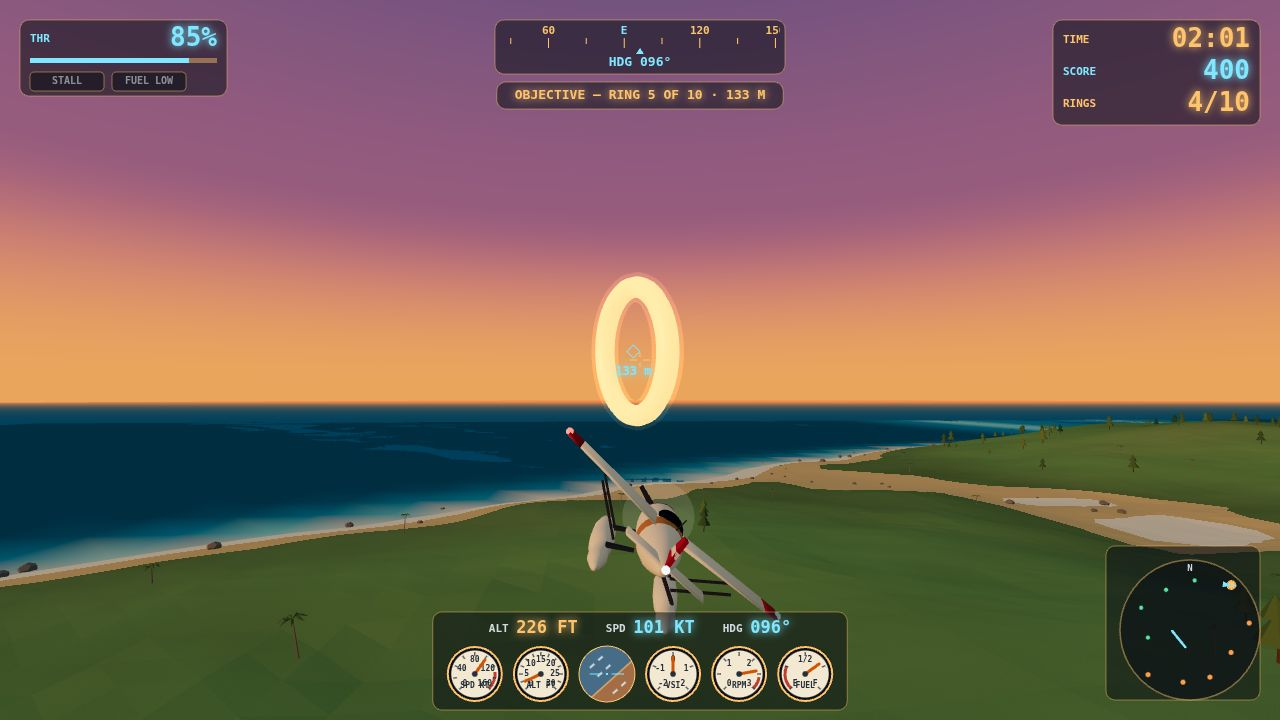
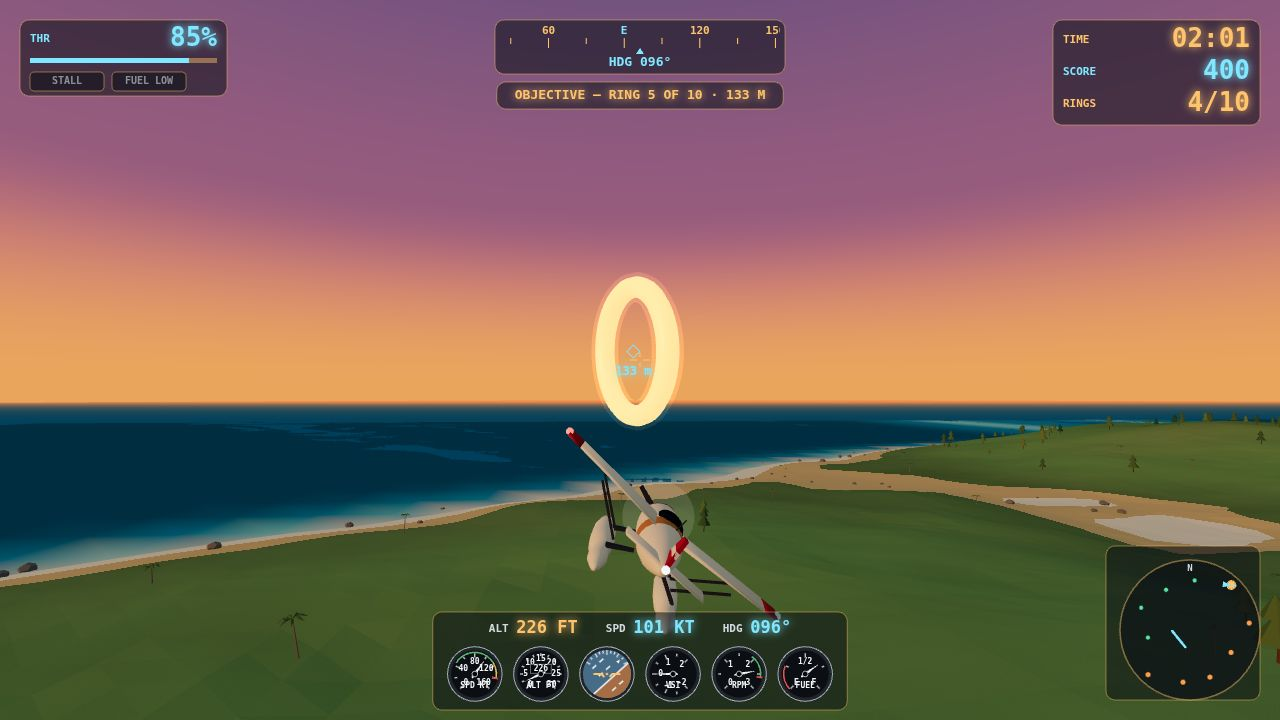
V5.1: open cockpit view (lowered panel, raised pilot eye, wing and prop hidden in cockpit), real-style black-face instruments with range arcs, drum altimeter and left-zero VSI

Changed region(s): [[0.3438, 0.8861, 0.6562, 0.9778]]

diff --git a/game/src/gauges.js b/game/src/gauges.js
@@ -30,51 +30,102 @@ function dialAngle(fraction) {
   return THREE.MathUtils.degToRad(-135 + 270 * fraction);
 }
 
-export function drawGauge(ctx, cx, cy, radius, fraction, label, ticks, { redStart, redEnd } = {}) {
-  const face = radius * 0.84;
-  const dark = '#26303a';
-  ctx.save();
+const faceColor = '#0b0f13';
+const rimColor = '#a7afb4';
+const instrumentWhite = '#f3f5f5';
+const green = '#55b56a';
+const yellow = '#e9bf49';
+const red = '#eb5353';
+
+function drawBezel(ctx, cx, cy, radius) {
   ctx.beginPath();
   ctx.arc(cx, cy, radius, 0, Math.PI * 2);
-  ctx.fillStyle = '#0b0f16';
+  ctx.fillStyle = '#202529';
   ctx.fill();
   ctx.beginPath();
-  ctx.arc(cx, cy, radius - 1, 0, Math.PI * 2);
-  ctx.strokeStyle = amber;
-  ctx.lineWidth = 2;
+  ctx.arc(cx, cy, radius - 0.75, 0, Math.PI * 2);
+  ctx.strokeStyle = rimColor;
+  ctx.lineWidth = 1;
   ctx.stroke();
+}
+
+function drawDrum(ctx, cx, cy, face, reading) {
+  const digits = String(Math.round(reading));
+  const width = Math.max(face * 0.88, digits.length * 5 + 4);
+  const height = Math.max(9, face * 0.22);
+  const y = cy - face * 0.22;
+  ctx.fillStyle = '#040608';
+  ctx.fillRect(cx - width / 2, y - height / 2, width, height);
+  ctx.strokeStyle = '#636b72';
+  ctx.lineWidth = 1;
+  ctx.strokeRect(cx - width / 2, y - height / 2, width, height);
+  text(ctx, digits, cx, y, instrumentWhite, 8, 'center');
+}
+
+export function drawGauge(ctx, cx, cy, radius, fraction, label, ticks, options = {}) {
+  const { angleFor = dialAngle, arcs = [], redLine, drum } = options;
+  const face = radius * 0.84;
+  ctx.save();
+  drawBezel(ctx, cx, cy, radius);
   ctx.beginPath();
   ctx.arc(cx, cy, face, 0, Math.PI * 2);
-  ctx.fillStyle = '#f3e9d2';
+  ctx.fillStyle = faceColor;
   ctx.fill();
 
-  if (redStart !== undefined || redEnd !== undefined) {
+  for (const [start, end, color] of arcs) {
     ctx.beginPath();
-    ctx.arc(cx, cy, face * 0.86, dialAngle(redStart ?? 0) - Math.PI / 2,
-      dialAngle(redEnd ?? 1) - Math.PI / 2);
-    ctx.strokeStyle = '#c23b31';
-    ctx.lineWidth = 3;
+    ctx.arc(cx, cy, face * 0.92, angleFor(start) - Math.PI / 2, angleFor(end) - Math.PI / 2);
+    ctx.strokeStyle = color;
+    ctx.lineWidth = Math.max(1.5, radius * 0.055);
     ctx.stroke();
   }
 
   ctx.lineWidth = 1;
   for (const tick of ticks) {
-    const angle = dialAngle(tick.fraction);
+    const angle = angleFor(tick.fraction);
     const x = Math.sin(angle) * face;
     const y = -Math.cos(angle) * face;
-    line(ctx, cx + x * 0.78, cy + y * 0.78, cx + x * 0.92, cy + y * 0.92, dark);
-    if (tick.label !== null) text(ctx, tick.label, cx + x * 0.60, cy + y * 0.60, dark, 8, 'center');
+    const inner = tick.label === null || drum !== undefined ? 0.77 : 0.71;
+    line(ctx, cx + x * inner, cy + y * inner, cx + x * 0.87, cy + y * 0.87, instrumentWhite);
+    if (tick.label !== null) {
+      const labelRadius = drum === undefined ? 0.53 : 0.65;
+      text(ctx, tick.label, cx + x * labelRadius, cy + y * labelRadius, instrumentWhite, 8, 'center');
+    }
+  }
+  if (redLine !== undefined) {
+    const angle = angleFor(redLine);
+    const x = Math.sin(angle) * face;
+    const y = -Math.cos(angle) * face;
+    ctx.lineWidth = Math.max(1.5, radius * 0.06);
+    line(ctx, cx + x * 0.76, cy + y * 0.76, cx + x * 0.99, cy + y * 0.99, red);
   }
 
-  const angle = dialAngle(THREE.MathUtils.clamp(fraction, 0, 1));
-  ctx.lineWidth = 3;
-  ctx.lineCap = 'round';
-  line(ctx, cx, cy, cx + Math.sin(angle) * face * 0.74, cy - Math.cos(angle) * face * 0.74, '#d35400');
+  if (drum !== undefined) drawDrum(ctx, cx, cy, face, drum);
+
+  ctx.save();
+  ctx.translate(cx, cy);
+  ctx.rotate(angleFor(THREE.MathUtils.clamp(fraction, 0, 1)));
+  const shoulder = Math.max(1.15, face * 0.049);
+  ctx.beginPath();
+  ctx.moveTo(0, -face * 0.75);
+  ctx.lineTo(shoulder, -face * 0.17);
+  ctx.lineTo(shoulder, face * 0.16);
+  ctx.lineTo(0, face * 0.23);
+  ctx.lineTo(-shoulder, face * 0.16);
+  ctx.lineTo(-shoulder, -face * 0.17);
+  ctx.closePath();
+  ctx.fillStyle = instrumentWhite;
+  ctx.fill();
+  ctx.restore();
+
   ctx.beginPath();
   ctx.arc(cx, cy, radius * 0.10, 0, Math.PI * 2);
-  ctx.fillStyle = dark;
+  ctx.fillStyle = '#050608';
   ctx.fill();
-  text(ctx, label, cx, cy + radius * 0.42, dark, 8, 'center');
+  ctx.strokeStyle = rimColor;
+  ctx.lineWidth = 1;
+  ctx.stroke();
+  text(ctx, label, cx, cy + radius * 0.42, instrumentWhite, 8, 'center');
   ctx.restore();
 }
 
@@ -86,43 +137,77 @@ export function gaugeTicks(maximum, step, labelStep, labelUnit = 1) {
 }
 
 export function drawAttitude(ctx, flight, x, y, radius) {
+  const face = radius * 0.86;
+  ctx.save();
+  drawBezel(ctx, x, y, radius);
+  ctx.translate(x, y);
+
   ctx.save();
   ctx.beginPath();
-  ctx.arc(x, y, radius, 0, Math.PI * 2);
+  ctx.arc(0, 0, face, 0, Math.PI * 2);
   ctx.clip();
   ctx.fillStyle = HUD.sky;
-  ctx.fillRect(x - radius, y - radius, radius * 2, radius * 2);
-  ctx.translate(x, y);
+  ctx.fillRect(-face, -face, face * 2, face * 2);
   ctx.rotate(-flight.roll);
-  const pitchScale = radius * 2.35;
-  const limit = radius * 0.85;
+  const pitchScale = face * 2.35;
+  const limit = face * 0.85;
   const horizon = THREE.MathUtils.clamp(flight.pitch * pitchScale, -limit, limit);
   ctx.fillStyle = HUD.ground;
-  ctx.fillRect(-radius * 2, horizon, radius * 4, radius * 4);
-  line(ctx, -radius * 2, horizon, radius * 2, horizon, amber);
-  ctx.lineWidth = 2;
+  ctx.fillRect(-face * 2, horizon, face * 4, face * 4);
+  ctx.lineWidth = 1.5;
+  line(ctx, -face * 2, horizon, face * 2, horizon, instrumentWhite);
   for (const degrees of [-20, -10, 10, 20]) {
     const level = horizon + THREE.MathUtils.degToRad(degrees) * pitchScale;
-    line(ctx, -radius * 0.30, level, -radius * 0.10, level, HUD.muted);
-    line(ctx, radius * 0.10, level, radius * 0.30, level, HUD.muted);
+    line(ctx, -face * 0.30, level, -face * 0.10, level, instrumentWhite);
+    line(ctx, face * 0.10, level, face * 0.30, level, instrumentWhite);
   }
   ctx.restore();
+
+  ctx.lineWidth = 1;
+  for (const degrees of [-60, -45, -30, -20, -10, 0, 10, 20, 30, 45, 60]) {
+    const angle = THREE.MathUtils.degToRad(degrees);
+    const tickX = Math.sin(angle) * face;
+    const tickY = -Math.cos(angle) * face;
+    const inner = degrees % 30 === 0 ? 0.81 : 0.87;
+    line(ctx, tickX * inner, tickY * inner, tickX * 0.97, tickY * 0.97, instrumentWhite);
+  }
+
+  ctx.save();
+  ctx.rotate(flight.roll);
   ctx.beginPath();
-  ctx.arc(x, y, radius, 0, Math.PI * 2);
+  ctx.moveTo(0, -face * 0.80);
+  ctx.lineTo(face * 0.075, -face * 0.65);
+  ctx.lineTo(-face * 0.075, -face * 0.65);
+  ctx.closePath();
+  ctx.fillStyle = instrumentWhite;
+  ctx.fill();
+  ctx.restore();
+
+  ctx.lineWidth = Math.max(2, face * 0.065);
+  ctx.lineCap = 'round';
+  ctx.lineJoin = 'round';
   ctx.strokeStyle = amber;
+  ctx.beginPath();
+  for (const side of [-1, 1]) {
+    ctx.moveTo(side * face * 0.53, 0);
+    ctx.lineTo(side * face * 0.23, 0);
+    ctx.lineTo(side * face * 0.13, face * 0.10);
+  }
   ctx.stroke();
-  line(ctx, x - 17, y, x - 5, y, cyan);
-  line(ctx, x + 5, y, x + 17, y, cyan);
-  ctx.fillStyle = cyan;
-  ctx.fillRect(x - 1, y - 1, 2, 2);
+  ctx.beginPath();
+  ctx.arc(0, 0, Math.max(1, face * 0.044), 0, Math.PI * 2);
+  ctx.fillStyle = amber;
+  ctx.fill();
+  ctx.restore();
 }
 
 const speedTicks = gaugeTicks(160, 20, 40);
 const altitudeTicks = gaugeTicks(3000, 250, 500, 100);
-const vsiTicks = [
-  { fraction: 0, label: '-2' }, { fraction: 0.25, label: '-1' }, { fraction: 0.5, label: '0' },
-  { fraction: 0.75, label: '1' }, { fraction: 1, label: '2' },
-];
+const vsiTicks = Array.from({ length: 9 }, (_, i) => ({
+  fraction: i / 8,
+  label: i % 2 === 0 ? String((i - 4) / 2) : null,
+}));
+const vsiAngle = (fraction) => THREE.MathUtils.degToRad(-225 + 270 * fraction);
 const rpmTicks = gaugeTicks(3000, 500, 1000, 1000);
 const fuelTicks = [
   { fraction: 0, label: 'E' }, { fraction: 0.25, label: null }, { fraction: 0.5, label: '1/2' },
@@ -139,13 +224,16 @@ export function drawInstrumentRow(ctx, cx, cy, radius, flight, position) {
   const altitude = Math.max(0, position.y) * HUD.feetPerMetre;
   const engineThrottle = flight.engineThrottle ?? flight.throttle;
   drawGauge(ctx, cx - 2.5 * spacing, cy, radius, speed / 160,
-    'SPD KT', speedTicks, { redStart: 130 / 160 });
-  drawGauge(ctx, cx - 1.5 * spacing, cy, radius, altitude / 3000, 'ALT FT', altitudeTicks);
+    'SPD KT', speedTicks, {
+      arcs: [[45 / 160, 115 / 160, green], [115 / 160, 140 / 160, yellow]],
+      redLine: 140 / 160,
+    });
+  drawGauge(ctx, cx - 1.5 * spacing, cy, radius, altitude / 3000, 'ALT FT', altitudeTicks, { drum: altitude });
   drawAttitude(ctx, flight, cx - 0.5 * spacing, cy, radius);
-  drawGauge(ctx, cx + 0.5 * spacing, cy, radius, vsiFraction(flight.verticalSpeed), 'VSI', vsiTicks);
+  drawGauge(ctx, cx + 0.5 * spacing, cy, radius, vsiFraction(flight.verticalSpeed), 'VSI', vsiTicks, { angleFor: vsiAngle });
   drawGauge(ctx, cx + 1.5 * spacing, cy, radius, (600 + engineThrottle * 2100) / 3000,
-    'RPM', rpmTicks, { redStart: 2600 / 3000 });
-  drawGauge(ctx, cx + 2.5 * spacing, cy, radius, flight.fuel, 'FUEL', fuelTicks, { redEnd: FUEL.lowFraction });
+    'RPM', rpmTicks, { arcs: [[1900 / 3000, 2600 / 3000, green]], redLine: 2600 / 3000 });
+  drawGauge(ctx, cx + 2.5 * spacing, cy, radius, flight.fuel, 'FUEL', fuelTicks, { arcs: [[0, FUEL.lowFraction, red]] });
 }
 
 export function drawDigitalStrip(ctx, cx, y, size, flight, position) {

diff --git a/game/src/aircraft.js b/game/src/aircraft.js
@@ -52,6 +52,7 @@ function buildPrimitiveSeaplane(materials) {
   const floatBody = new THREE.CapsuleGeometry(0.26, 2.26, 5, 10);
   const strut = new THREE.BoxGeometry(0.1, 0.63, 0.13);
   const navBulb = new THREE.SphereGeometry(0.085, 10, 8);
+  const wings = [];
 
   function wingBrace(side, z) {
     const start = new THREE.Vector3(side * 0.92, -0.65, z);
@@ -65,11 +66,13 @@ function buildPrimitiveSeaplane(materials) {
 
   for (const side of [-1, 1]) {
     const panel = new THREE.Group();
+    panel.name = side < 0 ? 'Wing panel Port' : 'Wing panel Starboard';
     panel.position.set(side * 0.27, 0.18, -0.16);
     panel.rotation.z = side * 0.075;
     add(panel, wing, cream, side * 1.11, 0, 0);
     add(panel, wingTip, red, side * 2.43, 0, 0);
     group.add(panel);
+    wings.push(panel);
 
     const float = add(group, floatBody, cream, side * 0.91, -0.82, -0.09);
     float.rotation.x = Math.PI / 2;
@@ -102,8 +105,7 @@ function buildPrimitiveSeaplane(materials) {
   const spinner = add(propeller, new THREE.ConeGeometry(0.17, 0.3, 12), red, 0, 0, -0.1);
   spinner.rotation.x = -Math.PI / 2;
   group.add(propeller);
-  addPropellerBlur(group);
-  return { group, propeller };
+  return { group, propeller, wings };
 }
 
 function addPropellerBlur(group) {
@@ -114,6 +116,7 @@ function addPropellerBlur(group) {
   blurDisc.position.z = -1.88;
   blurDisc.name = 'Propeller blur disc';
   group.add(blurDisc);
+  return blurDisc;
 }
 
 function buildCockpit(materials, cockpit) {
@@ -143,20 +146,20 @@ function buildCockpit(materials, cockpit) {
     mesh.quaternion.setFromUnitVectors(new THREE.Vector3(0, 1, 0), direction.normalize());
   }
 
-  part(new THREE.BoxGeometry(1.7, 0.62, 0.16), dark, 0, 0.06, -1.0);
-  const instruments = part(new THREE.PlaneGeometry(1.56, 0.78), panelMaterial, 0, 0.10, -0.90);
+  part(new THREE.BoxGeometry(1.6, 0.55, 0.16), dark, 0, 0.13, -1.06);
+  const instruments = part(new THREE.PlaneGeometry(1.45, 0.725), panelMaterial, 0, 0.16, -1.00);
   instruments.rotation.x = -0.12;
   // The dashboard backing intersects the tilted face, so paint the instruments over it.
   instruments.renderOrder = 1;
-  part(new THREE.BoxGeometry(1.8, 0.06, 0.46), dark, 0, 0.44, -0.92);
+  part(new THREE.BoxGeometry(1.65, 0.06, 0.46), dark, 0, 0.48, -0.98);
   const post = new THREE.BoxGeometry(0.055, 1, 0.055);
   for (const side of [-1, 1]) {
-    brace(post, new THREE.Vector3(side * 0.78, 0.40, -0.92), new THREE.Vector3(side * 0.60, 1.00, -0.68));
+    brace(post, new THREE.Vector3(side * 0.80, 0.46, -0.98), new THREE.Vector3(side * 0.60, 1.00, -0.68));
   }
   part(new THREE.BoxGeometry(1.26, 0.06, 0.08), materials.metal, 0, 1.00, -0.68);
   brace(new THREE.CylinderGeometry(0.028, 0.033, 1, 10),
-    new THREE.Vector3(0, -0.30, -0.78), new THREE.Vector3(0, 0, -0.70));
-  const yoke = part(new THREE.TorusGeometry(0.17, 0.028, 8, 20), dark, 0, 0, -0.70);
+    new THREE.Vector3(0, -0.18, -0.80), new THREE.Vector3(0, 0.06, -0.72));
+  const yoke = part(new THREE.TorusGeometry(0.14, 0.025, 8, 20), dark, 0, 0.06, -0.72);
   yoke.rotation.x = 1.15;
   part(new THREE.BoxGeometry(1.7, 0.05, 1.9), dark, 0, -0.48, -0.1);
   return interior;
@@ -168,6 +171,7 @@ export async function buildSeaplane() {
   group.name = 'Duskmail seaplane';
   let propeller = null;
   let spinners = [];
+  let wings = [];
 
   try {
     const { GLTFLoader } = await import('three/addons/loaders/GLTFLoader.min.js');
@@ -177,16 +181,18 @@ export async function buildSeaplane() {
         part.material = materials[part.material.name];
       }
       if (part.name === 'Propeller' || part.name === 'PropellerSpinner') spinners.push(part);
+      if (part.name.startsWith('Wing')) wings.push(part);
     });
     if (spinners.length !== 2) throw new Error('Missing seaplane propeller parts');
     group.add(gltf.scene);
-    addPropellerBlur(group);
   } catch {
     const primitive = buildPrimitiveSeaplane(materials);
     group.add(primitive.group);
     propeller = primitive.propeller;
     spinners = [propeller];
+    wings = primitive.wings;
   }
+  const blurDisc = addPropellerBlur(group);
   const canopy = group.getObjectByName('Canopy');
   const cockpit = createCockpitTexture();
   const interior = buildCockpit(materials, cockpit);
@@ -203,6 +209,10 @@ export async function buildSeaplane() {
     interior.visible = visible;
     // The opaque exterior canopy would cover the view from the pilot's eye.
     if (canopy) canopy.visible = !visible;
+    for (const spinner of spinners) spinner.visible = !visible;
+    for (const wing of wings) wing.visible = !visible;
+    blurDisc.material.opacity = visible ? 0.05 : 0.15;
+    blurDisc.material.color.setHex(visible ? 0x24262a : 0xf3e9d2);
   }
 
   function updateCockpit(flight, position) {

diff --git a/game/src/render.js b/game/src/render.js
@@ -72,7 +72,7 @@ export function createRenderer(canvas) {
 
   function updateCockpitCamera(flight) {
     cockpitRotation.set(flight.pitch, -flight.heading, -flight.roll);
-    cockpitEye.set(0, 0.55, -0.05).applyEuler(cockpitRotation).add(flight.position);
+    cockpitEye.set(0, 0.78, -0.05).applyEuler(cockpitRotation).add(flight.position);
     cockpitForward.set(0, 0, -1).applyEuler(cockpitRotation);
     camera.position.copy(cockpitEye);
     camera.up.copy(worldUp).applyEuler(cockpitRotation);
